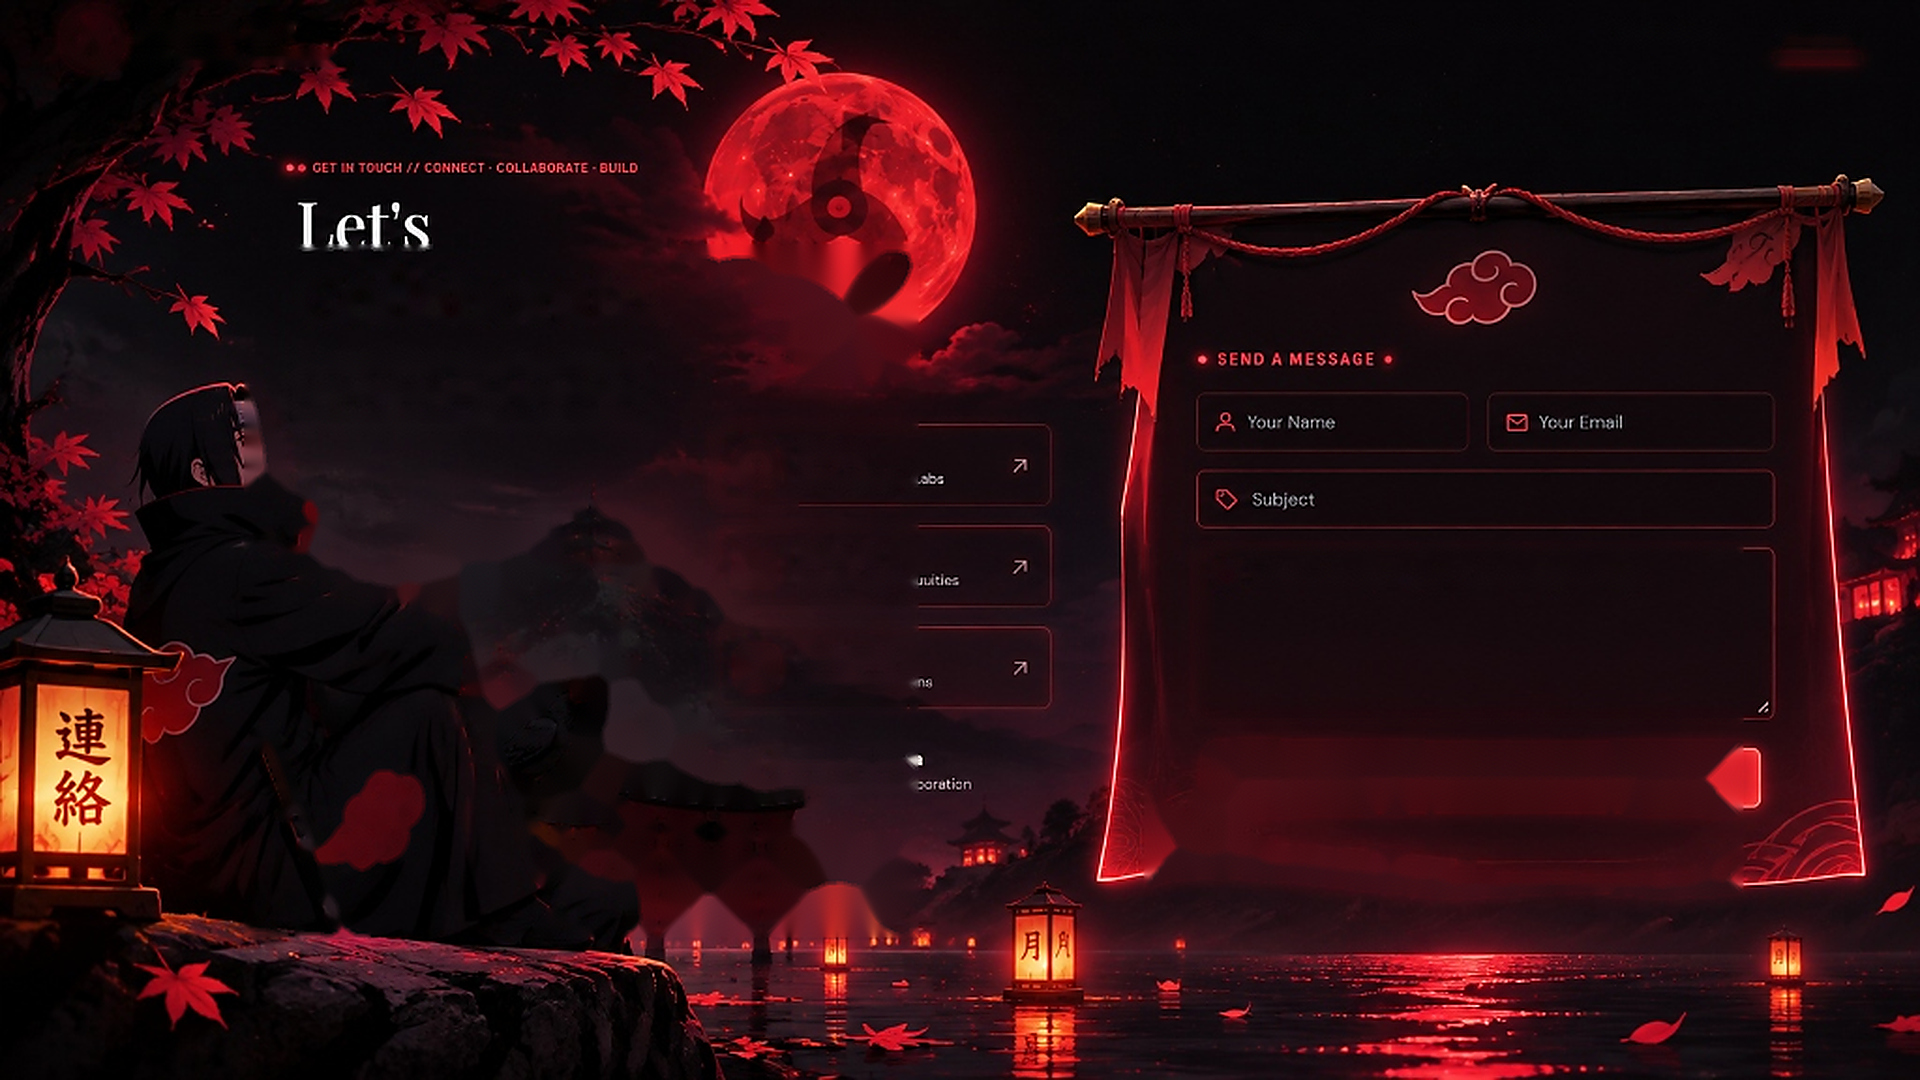
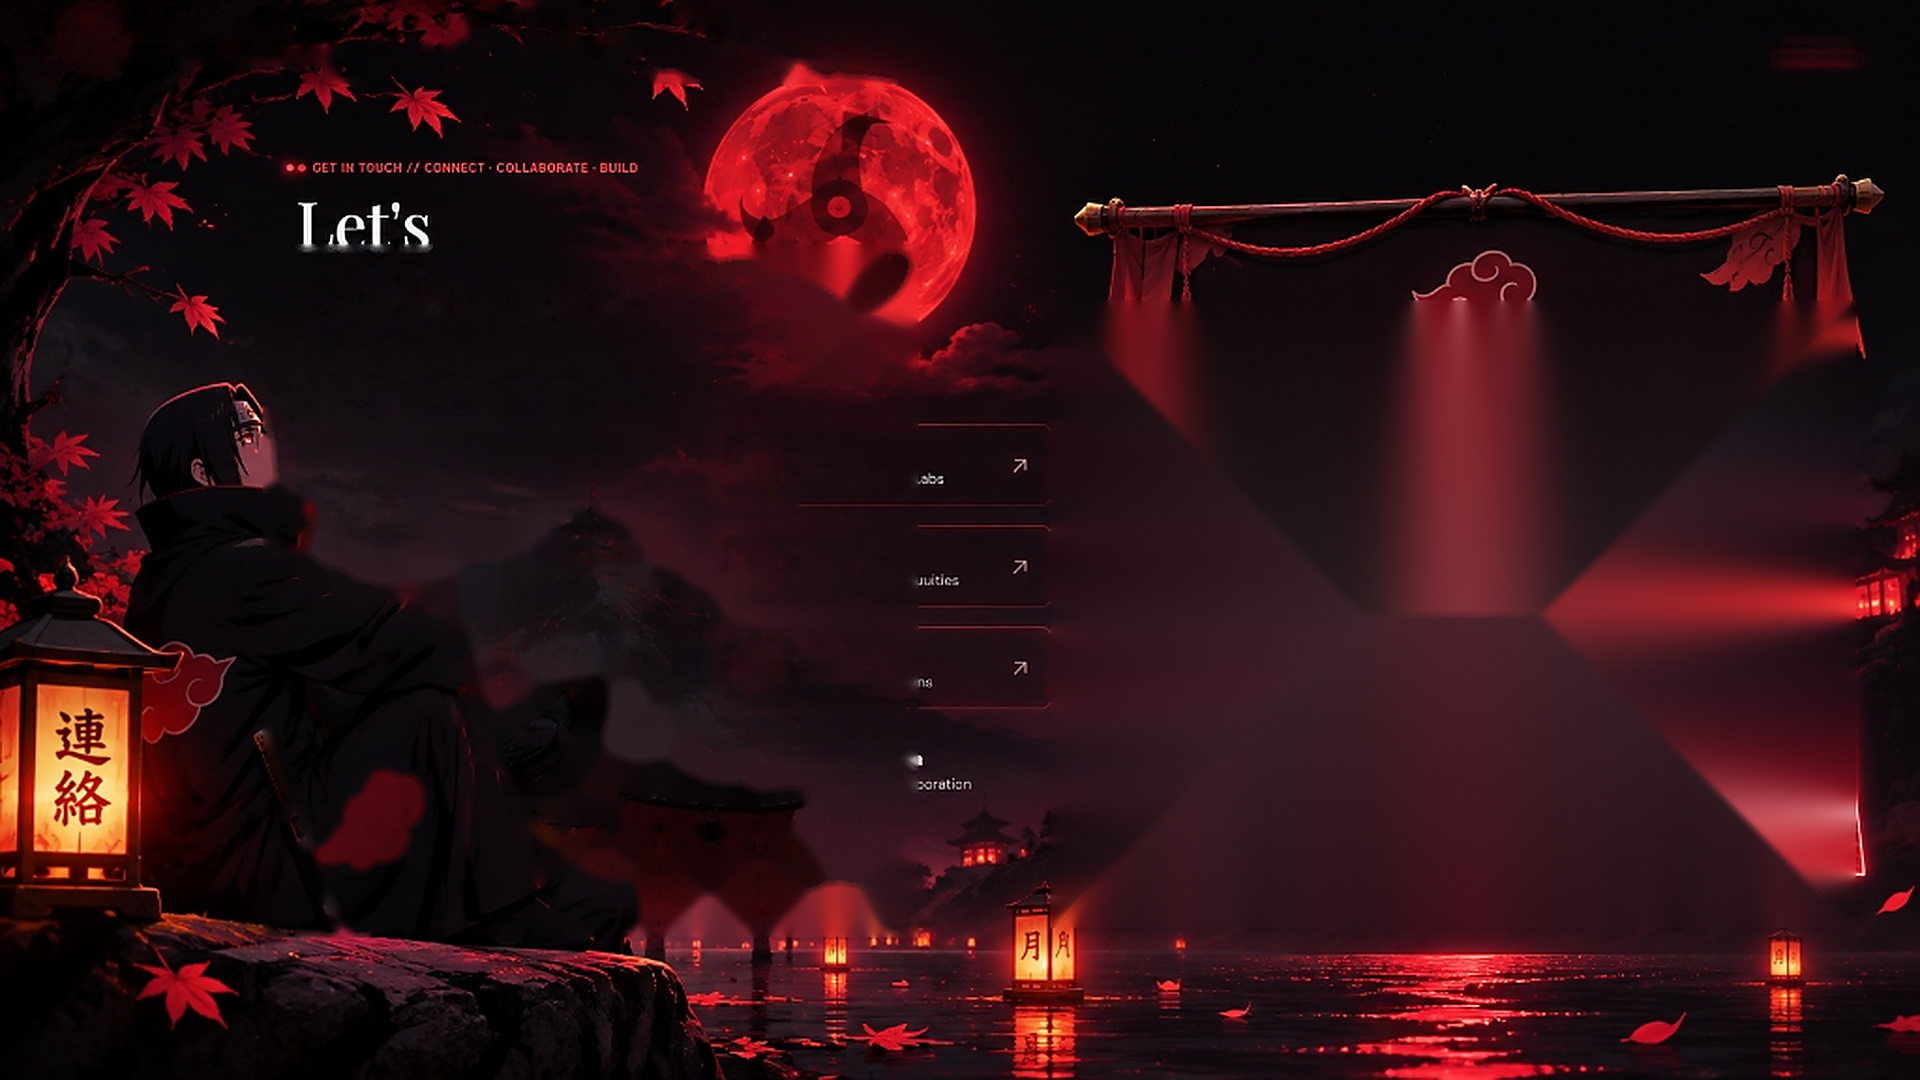
refactor: eliminate duplicate contact elements and remove ghost background scroll

diff --git a/components/contact/ShinobiContact.tsx b/components/contact/ShinobiContact.tsx
@@ -3,18 +3,18 @@
 import React, { useState } from "react";
 import Image from "next/image";
 import { motion } from "framer-motion";
-import { Github, Linkedin, Instagram, ArrowUpRight, MapPin, Sparkles } from "lucide-react";
+import { Github, Linkedin, Instagram, ArrowUpRight, MapPin } from "lucide-react";
 import ContactScroll from "./ContactScroll";
 import DriftingLeaves from "@/components/skills/DriftingLeaves";
 
 export default function ShinobiContact() {
-  const [selectedTopic, setSelectedTopic] = useState<string>("Project Collaboration");
+  const [selectedTopic, setSelectedTopic] = useState<string>("Full-Stack Web");
 
   const topics = [
-    "Project Collaboration",
-    "Internship Opportunities",
-    "Cybersecurity & Research",
-    "Custom Development",
+    "Full-Stack Web",
+    "Applied AI",
+    "Cybersecurity",
+    "Internships",
   ];
 
   const socialChannels = [
@@ -40,7 +40,7 @@ export default function ShinobiContact() {
 
   return (
     <section className="relative w-full min-h-[960px] lg:min-h-screen bg-black overflow-hidden flex flex-col justify-between pt-16 sm:pt-20 lg:pt-24 pb-12 lg:pb-16 select-none">
-      {/* 1. CINEMATIC BACKGROUND ARTWORK (Sharingan Moon, Itachi, Lantern with 連絡, Crow, Torii Gate, Water) */}
+      {/* 1. CINEMATIC BACKGROUND ARTWORK (Blood Moon, Landscape, Itachi on rock, Lantern, Water - Zero Background Scroll) */}
       <div className="absolute inset-0 z-0">
         <Image
           src="/assets/itachi/shinobi-contact-backdrop.jpg"
@@ -69,12 +69,11 @@ export default function ShinobiContact() {
       {/* 2. DRIFTING MAPLE LEAVES LAYER */}
       <DriftingLeaves />
 
-      {/* 3. FOREGROUND INTERACTION LAYER */}
-      <div className="relative z-20 w-full max-w-7xl mx-auto px-4 sm:px-6 lg:px-10 flex-1 flex flex-col justify-between">
-        {/* DESKTOP 2-COLUMN COMPOSITION MATCHING REFERENCE */}
-        <div className="hidden lg:grid lg:grid-cols-12 gap-8 items-start pt-4 flex-1">
-          {/* Left Column: Eyebrow, Heading, Description, Topics & Social Cards */}
-          <div className="lg:col-span-6 space-y-6 pt-4 max-w-lg">
+      {/* 3. FOREGROUND INTERACTION LAYER (SINGLE RESPONSIVE GRID - NO DUPLICATE CONTENT) */}
+      <div className="relative z-20 w-full max-w-7xl mx-auto px-4 sm:px-6 lg:px-10 flex-1 flex flex-col justify-center">
+        <div className="grid grid-cols-1 lg:grid-cols-12 gap-8 lg:gap-10 items-center w-full py-6">
+          {/* Left Column: Eyebrow, Heading, Description, Topics & Single Social Links List */}
+          <div className="lg:col-span-6 space-y-6 max-w-lg">
             {/* Eyebrow Tag */}
             <motion.div
               initial={{ opacity: 0, y: 10 }}
@@ -91,7 +90,7 @@ export default function ShinobiContact() {
               initial={{ opacity: 0, y: 16 }}
               animate={{ opacity: 1, y: 0 }}
               transition={{ duration: 0.7, delay: 0.1 }}
-              className="text-5xl xl:text-6xl font-serif font-bold text-white tracking-tight leading-[1.08]"
+              className="text-4xl sm:text-5xl xl:text-6xl font-serif font-bold text-white tracking-tight leading-[1.08]"
               style={{ fontFamily: "'Playfair Display', serif" }}
             >
               Let&apos;s<br />
@@ -105,7 +104,7 @@ export default function ShinobiContact() {
               transition={{ duration: 0.7, delay: 0.2 }}
               className="text-sm text-neutral-300 font-sans leading-relaxed"
             >
-              Have a project, opportunity, or idea in mind? I&apos;m always open to discussing development, cybersecurity, research, and collaborations.
+              Have a project, opportunity, or idea in mind? I&apos;m always open to discussing development, cybersecurity, research, and technical collaborations.
             </motion.p>
 
             {/* Collaboration Interest Chips */}
@@ -139,7 +138,7 @@ export default function ShinobiContact() {
               </div>
             </motion.div>
 
-            {/* 3 Social Cards (GitHub, LinkedIn, Instagram) */}
+            {/* Exactly One List of Social Cards (GitHub, LinkedIn, Instagram) */}
             <motion.div
               initial={{ opacity: 0, y: 16 }}
               animate={{ opacity: 1, y: 0 }}
@@ -174,7 +173,7 @@ export default function ShinobiContact() {
                 </a>
               ))}
 
-              {/* Location Badge */}
+              {/* Location Badge (Exactly Once) */}
               <div className="flex items-center gap-2.5 px-3 py-2 rounded-lg bg-black/60 border border-red-950/60 font-mono text-[10px] text-neutral-400">
                 <MapPin size={13} className="text-red-500 shrink-0" />
                 <div>
@@ -185,65 +184,12 @@ export default function ShinobiContact() {
             </motion.div>
           </div>
 
-          {/* Right Column: The Hanging Contact Scroll */}
-          <div className="lg:col-span-6 flex justify-end items-center pt-2">
+          {/* Right Column: Exactly ONE Hanging Contact Scroll with Form */}
+          <div className="lg:col-span-6 flex justify-center lg:justify-end items-center pt-2">
             <ContactScroll selectedTopic={selectedTopic} />
-          </div>
-        </div>
-
-        {/* MOBILE / TABLET STACKED RESPONSIVE LAYOUT */}
-        <div className="lg:hidden flex flex-col gap-8 py-4">
-          {/* Header */}
-          <div className="space-y-4">
-            <div className="inline-flex items-center gap-2 font-mono text-[10px] tracking-[0.25em] text-red-500 uppercase">
-              <span className="w-1.5 h-1.5 rounded-full bg-red-500 shadow-[0_0_8px_#ff263b]" />
-              GET IN TOUCH
-            </div>
-
-            <h1
-              className="text-4xl font-serif font-bold text-white tracking-tight"
-              style={{ fontFamily: "'Playfair Display', serif" }}
-            >
-              Let&apos;s <em className="text-red-500 italic">Collaborate.</em>
-            </h1>
-
-            <p className="text-xs sm:text-sm text-neutral-300 font-sans leading-relaxed">
-              Have a project, opportunity, or idea in mind? I&apos;m always open to discussing development, cybersecurity, research, and collaborations.
-            </p>
-          </div>
-
-          {/* Contact Scroll */}
-          <ContactScroll selectedTopic={selectedTopic} />
-
-          {/* Social Links & Location */}
-          <div className="space-y-2.5 pt-2">
-            {socialChannels.map((soc) => (
-              <a
-                key={soc.title}
-                href={soc.link}
-                target="_blank"
-                rel="noreferrer"
-                className="flex items-center justify-between p-3 rounded-lg bg-black/70 border border-red-950/80"
-              >
-                <div className="flex items-center gap-3">
-                  {soc.icon}
-                  <div>
-                    <div className="font-serif text-xs font-bold text-white">{soc.title}</div>
-                    <div className="font-mono text-[9px] text-neutral-400">{soc.subtitle}</div>
-                  </div>
-                </div>
-                <ArrowUpRight size={14} className="text-neutral-500" />
-              </a>
-            ))}
-
-            <div className="flex items-center gap-2 px-3 py-2 rounded-lg bg-black/60 border border-red-950/60 font-mono text-[10px] text-neutral-400">
-              <MapPin size={13} className="text-red-500 shrink-0" />
-              <span>Karnataka, India · Open to remote collaboration</span>
-            </div>
           </div>
         </div>
       </div>
     </section>
   );
 }
-
